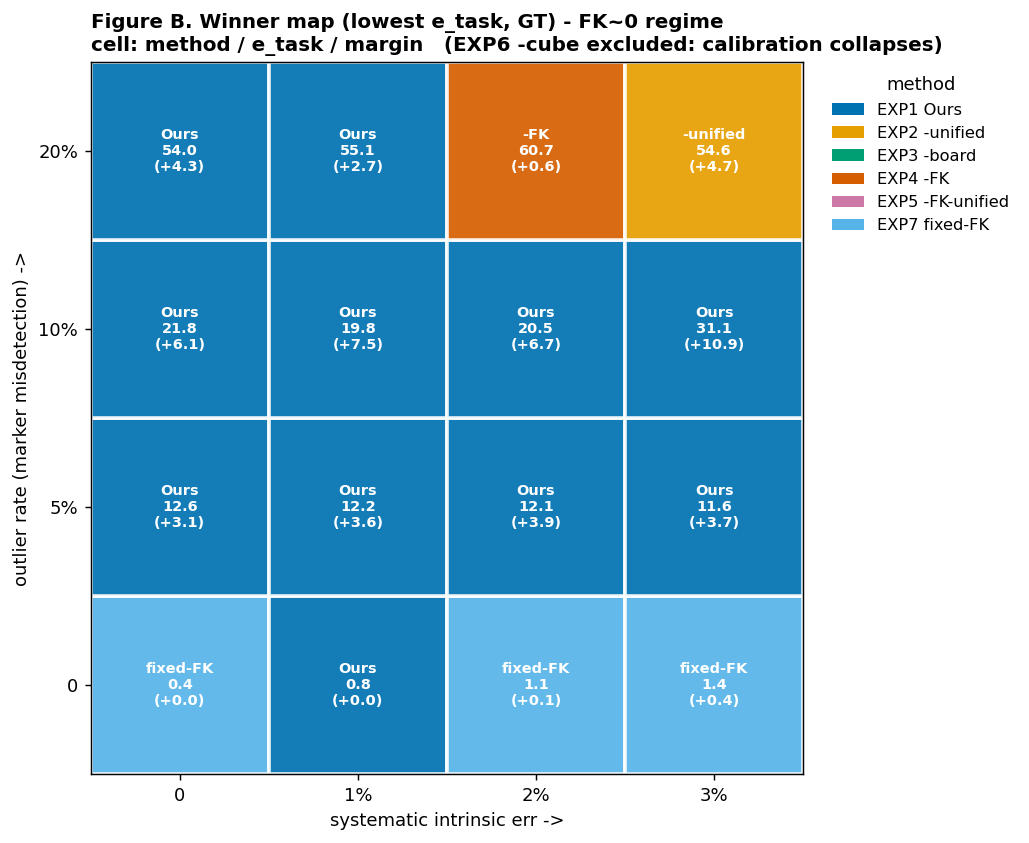
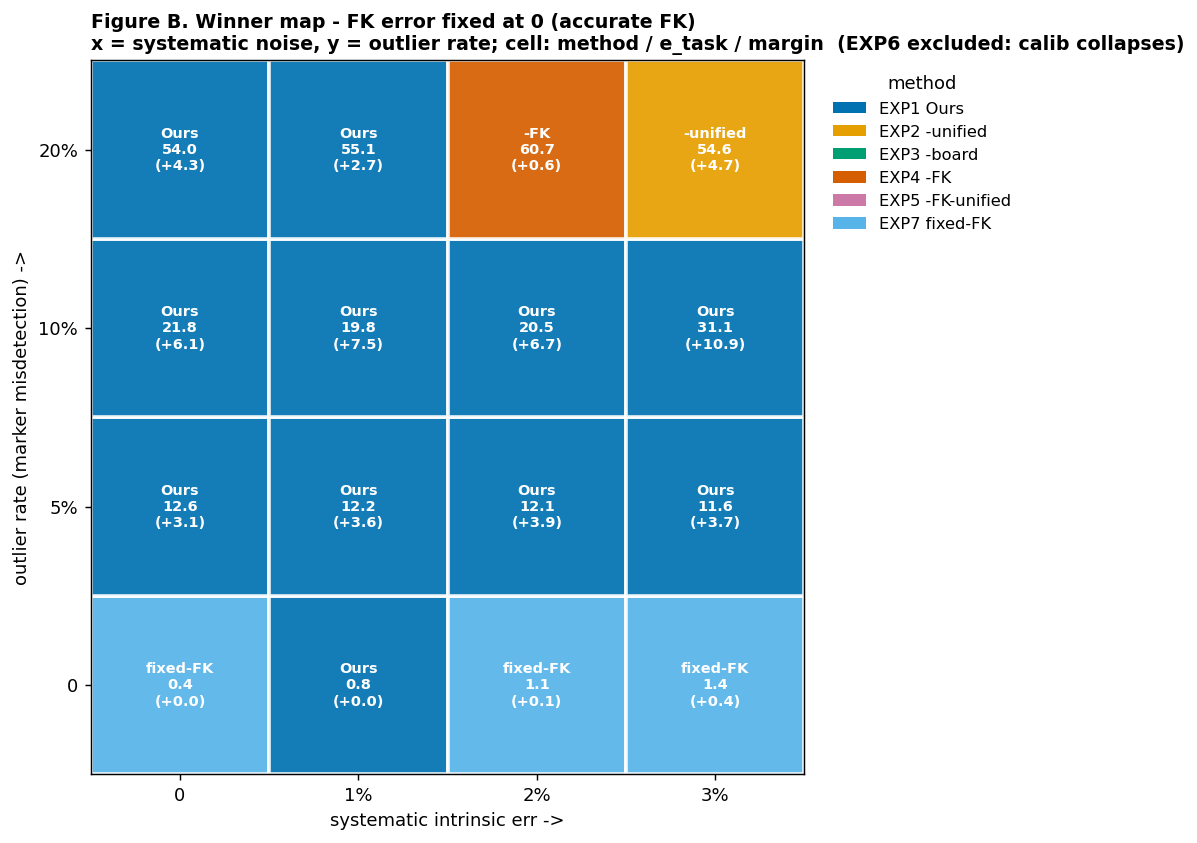
Clarify Fig B caption/title: FK error fixed=0, axes are systematic x outlier
Previous "계통 x 오검출 (FK~0 영역)" was ambiguous (read as "no systematic").
Now explicit: FK error held at 0 (accurate FK), x-axis = systematic noise,
y-axis = outlier rate.

diff --git a/Simulation/viz_paper_sim.py b/Simulation/viz_paper_sim.py
@@ -109,9 +109,10 @@ def fig_B(blob):
     ax.set_xlabel("systematic intrinsic err ->", fontsize=10)
     ax.set_ylabel("outlier rate (marker misdetection) ->", fontsize=10)
     ax.set_xlim(-0.5, len(SYS)-0.5); ax.set_ylim(-0.5, len(OUT)-0.5)
-    ax.set_title("Figure B. Winner map (lowest e_task, GT) - FK~0 regime\n"
-                 "cell: method / e_task / margin   (EXP6 -cube excluded: calibration collapses)",
-                 fontsize=11, fontweight="bold", loc="left"); ax.set_aspect("equal")
+    ax.set_title("Figure B. Winner map - FK error fixed at 0 (accurate FK)\n"
+                 "x = systematic noise, y = outlier rate; cell: method / e_task / margin"
+                 "  (EXP6 excluded: calib collapses)",
+                 fontsize=10.5, fontweight="bold", loc="left"); ax.set_aspect("equal")
     legend = [Patch(facecolor=color[n], label=f"{n} {STYLE[n][4]}") for n in CAND]
     ax.legend(handles=legend, loc="upper left", bbox_to_anchor=(1.02, 1.0),
               frameon=False, fontsize=9, title="method")
